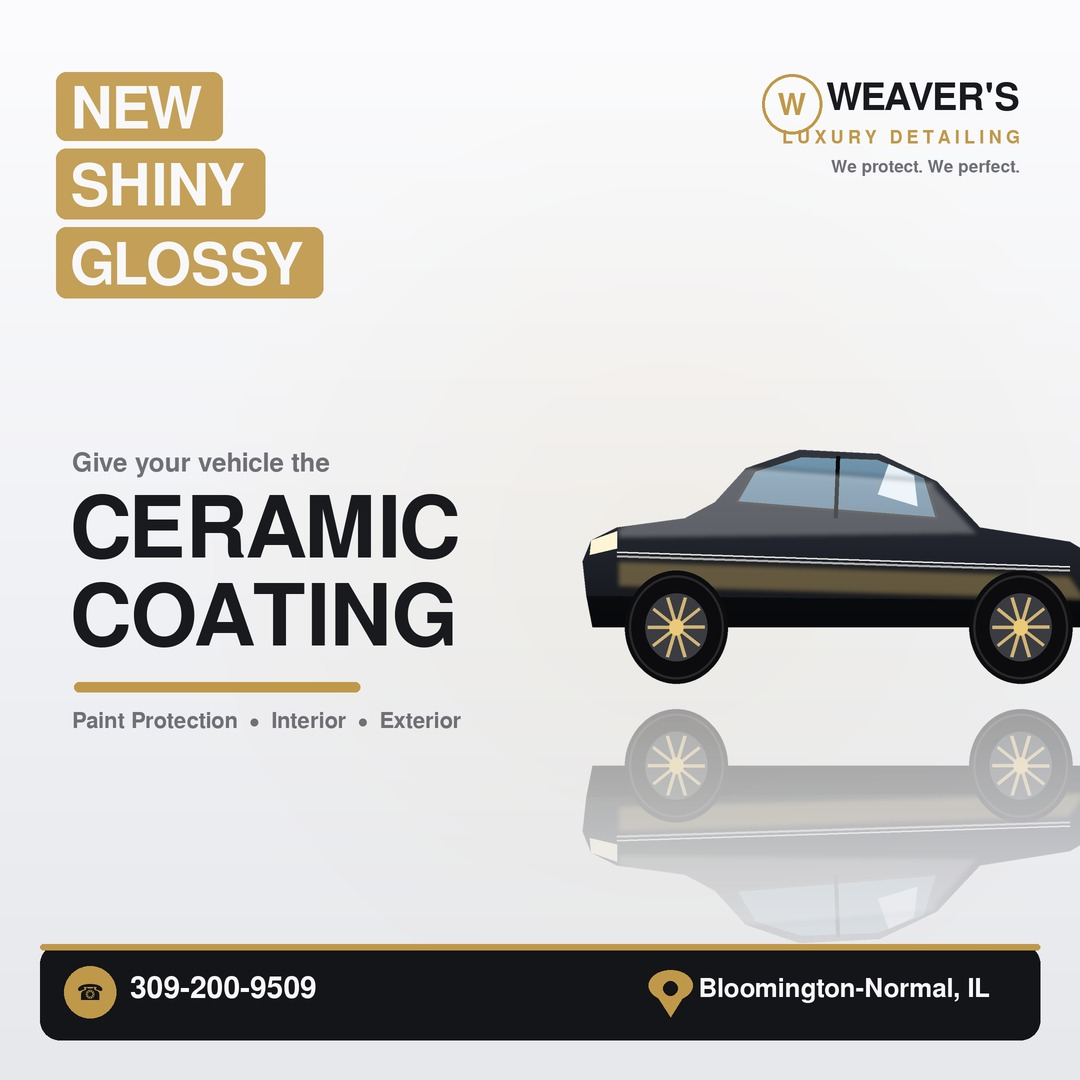
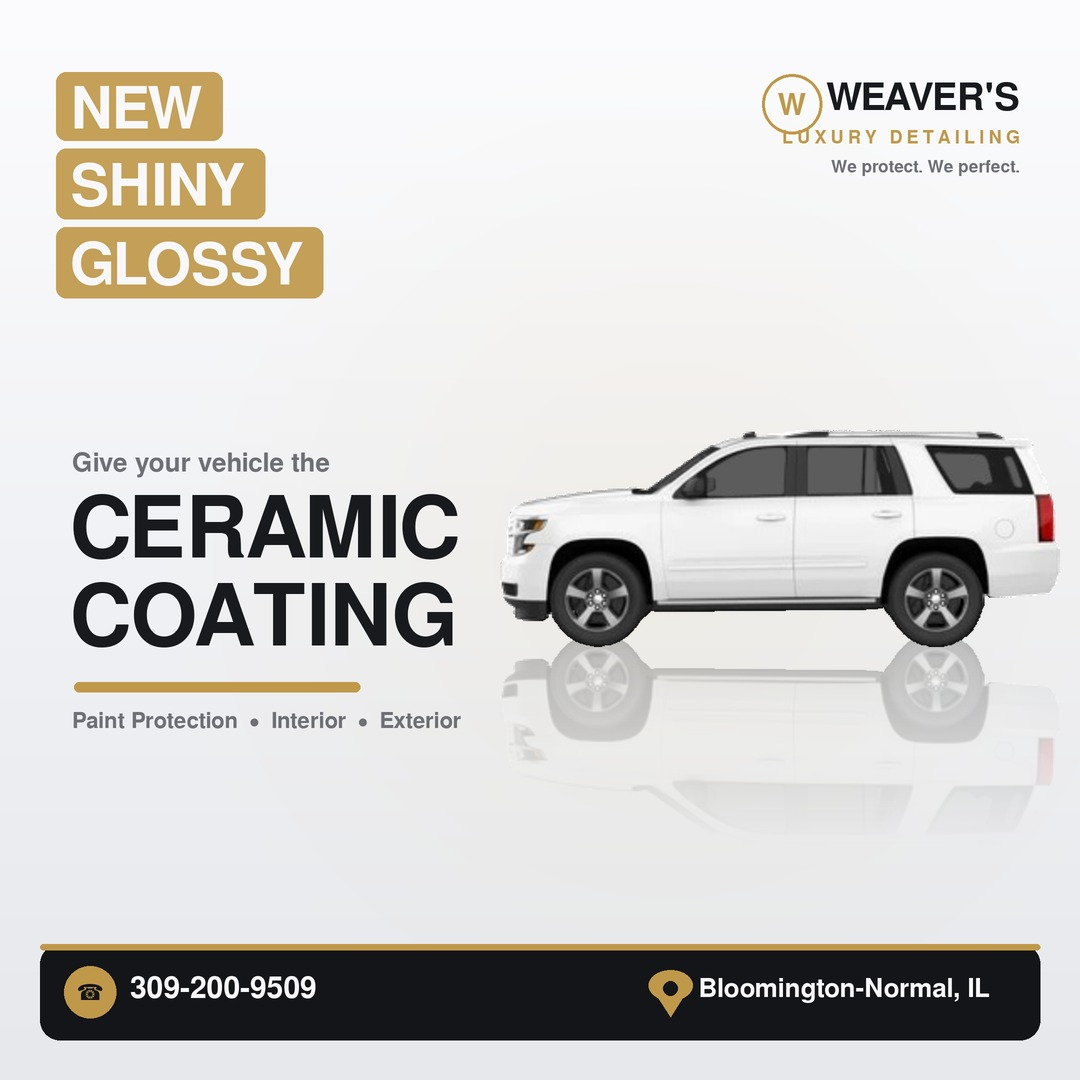
Use real white SUV photo (bg-removed) as hero in Weaver's ceramic ad

Changed region(s): [[0.4583, 0.3972, 1.0, 0.8556]]

diff --git a/make_weavers_ceramic_ad.py b/make_weavers_ceramic_ad.py
@@ -117,10 +117,8 @@ def render_car():
     wheel(806, 452, 86)
     return car
 
-car = render_car()
-# face left (front toward the text)
-car = car.transpose(Image.FLIP_LEFT_RIGHT)
-CARW = s(600)
+car = Image.open("/home/user/Kellan/_suv_cut.png").convert("RGBA")
+CARW = s(560)
 car = car.resize((CARW, int(CARW * car.height / car.width)), Image.LANCZOS)
 
 # floor reflection
@@ -128,14 +126,14 @@ refl = car.transpose(Image.FLIP_TOP_BOTTOM)
 fade = Image.new("L", refl.size, 0)
 fp = fade.load()
 for y in range(refl.height):
-    a = int(95 * (1 - y / refl.height))
+    a = int(70 * (1 - y / refl.height))
     for x in range(refl.width):
         fp[x, y] = a
 refl.putalpha(ImageChops.multiply(refl.split()[3], fade))
 
-car_x = CW - CARW + s(80)
-car_y = s(330)
-img.paste(refl, (car_x, car_y + car.height - s(30)), refl)
+car_x = CW - CARW - s(20)
+car_y = s(430)
+img.paste(refl, (car_x, car_y + car.height - s(14)), refl)
 img.paste(car, (car_x, car_y), car)
 draw = ImageDraw.Draw(img, "RGBA")
 
